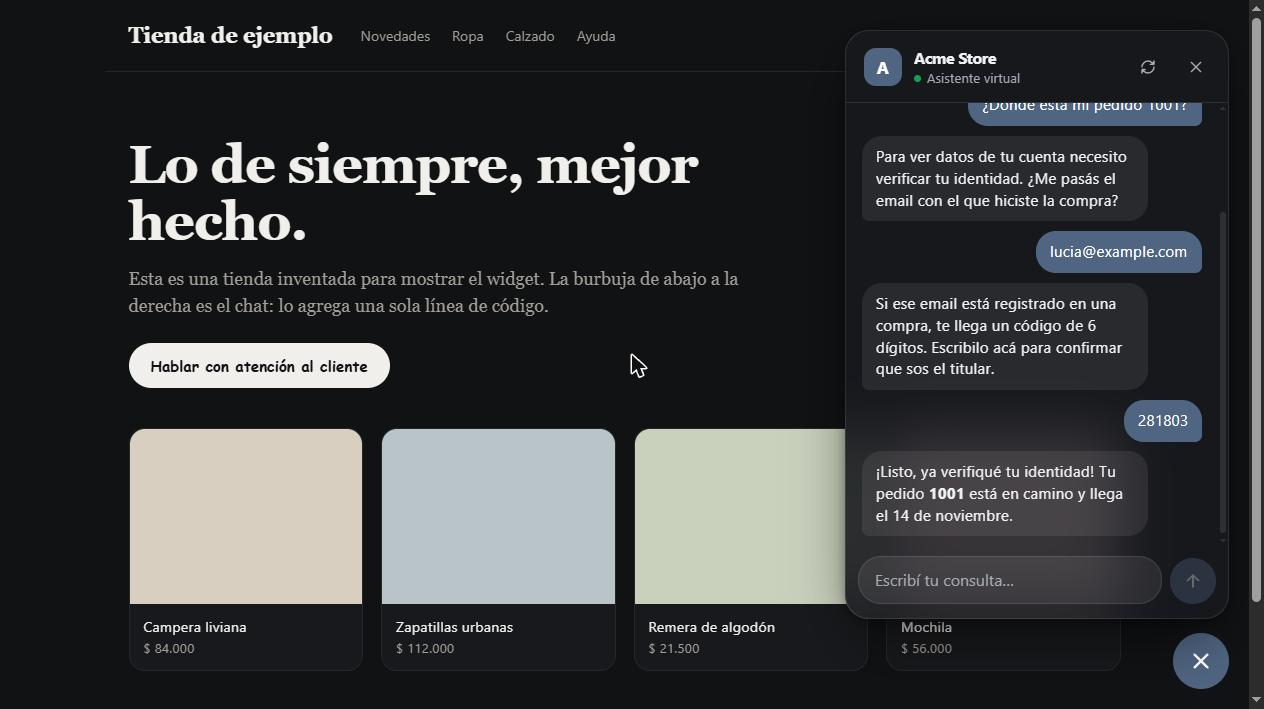
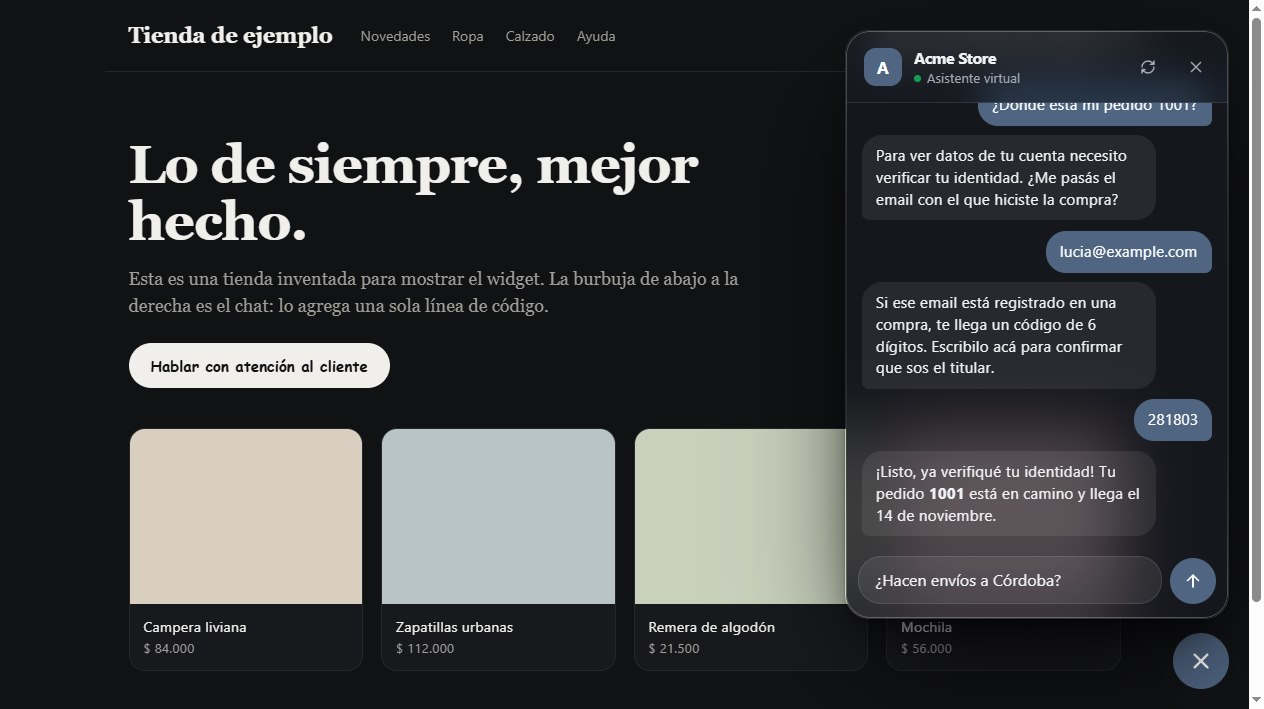
Mejora el diseño del widget: scroll discreto, vidrio más visible, enviar gris y panel flotante.

diff --git a/backend/app/channels/web/static/widget.js b/backend/app/channels/web/static/widget.js
@@ -19,13 +19,17 @@
 :host{all:initial}
 *{box-sizing:border-box}
 .root{--surface:255,255,255;--ink:#12151a;--muted:#5d6470;--line:rgba(18,21,26,.09);
---soft:rgba(18,21,26,.055);--warn-bg:rgba(180,83,9,.1);--warn:#8a4a06;--glass:.86;
---shadow:0 24px 64px -16px rgba(15,23,42,.28),0 2px 10px rgba(15,23,42,.06);
+--soft:rgba(18,21,26,.055);--warn-bg:rgba(180,83,9,.1);--warn:#8a4a06;--glass:.68;--top-glass:.6;
+--idle:rgba(18,21,26,.08);--idle-ink:#8b919b;--thumb:rgba(18,21,26,.3);
+--rim:rgba(255,255,255,.95);--rim-low:rgba(255,255,255,.3);
+--shadow:0 1px 2px rgba(15,23,42,.06),0 14px 30px -14px rgba(15,23,42,.2),0 50px 110px -30px rgba(15,23,42,.42);
 font:15px/1.45 system-ui,-apple-system,"Segoe UI",Roboto,"Helvetica Neue",Arial,sans-serif;
 color:var(--ink);-webkit-font-smoothing:antialiased;text-align:left}
 .root[data-theme=dark]{--surface:23,25,30;--ink:#f1f2f4;--muted:#a4aab4;
 --line:rgba(255,255,255,.1);--soft:rgba(255,255,255,.08);--warn-bg:rgba(251,191,36,.12);
---warn:#f5c56b;--glass:.84;--shadow:0 24px 64px -16px rgba(0,0,0,.7),0 2px 10px rgba(0,0,0,.3)}
+--warn:#f5c56b;--glass:.72;--top-glass:.58;--idle:rgba(255,255,255,.09);--idle-ink:#7c828c;
+--thumb:rgba(255,255,255,.32);--rim:rgba(255,255,255,.26);--rim-low:rgba(255,255,255,.05);
+--shadow:0 1px 2px rgba(0,0,0,.35),0 16px 34px -14px rgba(0,0,0,.6),0 54px 120px -26px rgba(0,0,0,.9)}
 button,textarea{font:inherit;color:inherit}
 button{cursor:pointer;-webkit-tap-highlight-color:transparent}
 :focus{outline:none}
@@ -49,11 +53,24 @@ transition:transform .35s cubic-bezier(.2,1.3,.4,1),opacity .25s;opacity:0;trans
 background:#d92d20;color:#fff;font-size:12px;font-weight:650;line-height:20px;text-align:center;
 box-shadow:0 0 0 2px rgb(var(--surface))}
 
-.panel{display:flex;flex-direction:column;overflow:hidden;background:rgba(var(--surface),.985);
+.panel{position:relative;display:flex;flex-direction:column;overflow:hidden;background:rgba(var(--surface),.985);
 border:1px solid var(--line);border-radius:24px;box-shadow:var(--shadow)}
+/* Brillo del borde: un aro de 1px, más claro arriba, como la luz sobre un vidrio. */
+.panel::before{content:"";position:absolute;inset:0;z-index:4;border-radius:inherit;padding:1px;pointer-events:none;
+background:linear-gradient(180deg,var(--rim),var(--rim-low) 34%,var(--rim-low) 72%,var(--rim));
+-webkit-mask:linear-gradient(#000 0 0) content-box,linear-gradient(#000 0 0);-webkit-mask-composite:xor;
+mask:linear-gradient(#000 0 0) content-box,linear-gradient(#000 0 0);mask-composite:exclude}
+.top{position:absolute;top:0;left:0;right:0;z-index:3;background:rgba(var(--surface),.97);
+border-bottom:1px solid var(--line)}
 @supports ((backdrop-filter:blur(1px)) or (-webkit-backdrop-filter:blur(1px))){
-.panel{background:rgba(var(--surface),var(--glass));
--webkit-backdrop-filter:blur(26px) saturate(1.7);backdrop-filter:blur(26px) saturate(1.7)}}
+/* El vidrio del panel va en una capa aparte: si lo tuviera el panel, el encabezado (que está
+   adentro) no podría desenfocar los mensajes que pasan por debajo. */
+.panel{background:transparent;z-index:0}
+.panel::after{content:"";position:absolute;inset:0;z-index:-1;background:rgba(var(--surface),var(--glass));
+-webkit-backdrop-filter:blur(32px) saturate(1.9);backdrop-filter:blur(32px) saturate(1.9)}
+/* El encabezado es otra capa de vidrio: los mensajes pasan por debajo, desenfocados. */
+.top{background:rgba(var(--surface),var(--top-glass));
+-webkit-backdrop-filter:blur(18px) saturate(1.8);backdrop-filter:blur(18px) saturate(1.8)}}
 .root[data-mode=float] .panel{position:fixed;z-index:2147483001;right:20px;
 bottom:calc(max(20px,env(safe-area-inset-bottom)) + 70px);width:384px;max-width:calc(100vw - 40px);
 height:min(640px,calc(100vh - 120px));height:min(640px,calc(100dvh - 120px));
@@ -66,7 +83,7 @@ transition:transform .46s cubic-bezier(.16,1.22,.3,1),opacity .2s ease-out,visib
 .root:not([data-mode=float]){height:100%}
 .root:not([data-mode=float]) .panel{width:100%;height:100%}
 
-header{display:flex;align-items:center;gap:12px;padding:16px 14px 14px 18px;border-bottom:1px solid var(--line)}
+header{display:flex;align-items:center;gap:12px;padding:16px 14px 14px 18px}
 .logo{flex:none;width:38px;height:38px;border-radius:12px;background:var(--accent);color:var(--on-accent);
 display:grid;place-items:center;font-weight:650;font-size:17px;overflow:hidden}
 .logo img{width:100%;height:100%;object-fit:cover;display:block}
@@ -87,9 +104,14 @@ display:flex;align-items:center;gap:10px}
 .link{border:0;background:none;padding:2px 4px;border-radius:6px;font-weight:600;font-size:13px;
 text-decoration:underline;text-underline-offset:3px}
 
-.log{flex:1;overflow-y:auto;overscroll-behavior:contain;padding:20px 16px 10px;display:flex;
-flex-direction:column;gap:10px;scrollbar-width:thin;scrollbar-color:var(--line) transparent}
+.log{flex:1;overflow-y:auto;overscroll-behavior:contain;padding:86px 16px 10px;display:flex;
+flex-direction:column;gap:10px;scrollbar-width:none}
+.log::-webkit-scrollbar,textarea::-webkit-scrollbar{display:none}
 .log:focus-visible{outline-offset:-5px;border-radius:14px}
+/* La barra del navegador no se ve: esta, fina, aparece solo mientras se desplaza. */
+.thumb{position:absolute;top:0;right:4px;z-index:2;width:4px;height:0;border-radius:2px;background:var(--thumb);
+opacity:0;pointer-events:none;transition:opacity .6s ease}
+.thumb.on{opacity:1;transition-duration:.12s}
 .row{display:flex;flex-direction:column;max-width:84%;align-items:flex-start;
 animation:in .32s cubic-bezier(.2,.9,.3,1) both}
 .row.user{align-self:flex-end;align-items:flex-end}
@@ -118,14 +140,16 @@ font-size:14px;transition:background .15s}
 .composer{display:flex;align-items:flex-end;gap:8px;padding:10px 12px 12px}
 textarea{flex:1;min-width:0;resize:none;min-height:46px;max-height:124px;padding:12px 16px;border-radius:23px;
 border:1px solid var(--line);background:var(--soft);font-size:16px;line-height:1.35;overflow-y:hidden;
-transition:border-color .15s,background .15s}
+scrollbar-width:none;transition:border-color .15s,background .15s}
 textarea::placeholder{color:var(--muted);opacity:1}
 textarea:focus-visible{outline:none;border-color:var(--focus);background:transparent}
 textarea:disabled{opacity:.55}
 .send{flex:none;width:46px;height:46px;border-radius:50%;border:0;background:var(--accent);color:var(--on-accent);
-display:grid;place-items:center;transition:transform .2s cubic-bezier(.2,1.3,.4,1),opacity .15s}
+display:grid;place-items:center;
+transition:transform .2s cubic-bezier(.2,1.3,.4,1),background-color .18s ease,color .18s ease}
 .send:hover:not(:disabled){transform:scale(1.07)}
-.send:disabled{opacity:.35;cursor:default}
+/* Gris con el campo vacío; el acento recién cuando hay algo para mandar. */
+.send:disabled{background:var(--idle);color:var(--idle-ink);cursor:default}
 .send svg{width:20px;height:20px}
 .ended{padding:6px 18px 14px;display:grid;justify-items:center}
 .foot{padding:0 18px max(12px,env(safe-area-inset-bottom));text-align:center;font-size:11.5px;color:var(--muted)}
@@ -141,13 +165,14 @@ display:grid;place-items:center;transition:transform .2s cubic-bezier(.2,1.3,.4,
 transform-origin:50% 100%;transform:translateY(24px)}
 .root[data-mode=float][data-open] .launcher{opacity:0;pointer-events:none}
 .root[data-mode=page] .panel{border-radius:0;border:0;box-shadow:none}
+.root[data-mode=float] .panel::before,.root[data-mode=page] .panel::before{display:none}
 header{padding-top:max(14px,env(safe-area-inset-top))}
 .row{max-width:88%}}
 @media (prefers-reduced-motion:reduce){
 *,*::before,*::after{animation-duration:.01ms!important;animation-iteration-count:1!important;
 transition-duration:.01ms!important}
 .root[data-mode=float] .panel{transform:none}}
-@media (forced-colors:active){.bubble,.panel,.launcher,.send{border:1px solid CanvasText}}
+@media (forced-colors:active){.bubble,.panel,.launcher,.send{border:1px solid CanvasText}.thumb{background:CanvasText}}
 `;
 
   var ICONS = {
@@ -168,13 +193,14 @@ transition-duration:.01ms!important}
     (embedded ? "" : '<button class="launcher" type="button" aria-expanded="false" aria-controls="panel">' +
       ICONS.chat + ICONS.close + '<span class="badge" hidden></span></button>') +
     '<section class="panel" id="panel" role="' + (embedded ? "region" : "dialog") + '" aria-label="Chat">' +
-    '<header><div class="logo" aria-hidden="true"></div><div class="title"><b></b>' +
+    '<div class="top"><header><div class="logo" aria-hidden="true"></div><div class="title"><b></b>' +
     '<span><i aria-hidden="true"></i><em style="font-style:normal">Asistente virtual</em></span></div>' +
     '<button class="icon fresh" type="button" aria-label="Empezar una conversación nueva" hidden>' + ICONS.fresh + "</button>" +
     (embedded ? "" : '<button class="icon shut" type="button" aria-label="Cerrar el chat">' + ICONS.close.replace(' class="i-close"', "") + "</button>") +
     "</header>" +
-    '<div class="bar" role="status" hidden></div>' +
+    '<div class="bar" role="status" hidden></div></div>' +
     '<div class="log" role="log" aria-live="polite" aria-relevant="additions" tabindex="0" aria-label="Conversación"></div>' +
+    '<div class="thumb" aria-hidden="true"></div>' +
     '<div class="composer"><label class="sr" for="msg">Mensaje</label>' +
     '<textarea id="msg" rows="1" maxlength="1000" placeholder="Escribí tu consulta…" enterkeyhint="send"></textarea>' +
     '<button class="send" type="button" aria-label="Enviar" disabled>' + ICONS.send + "</button></div>" +
@@ -187,6 +213,7 @@ transition-duration:.01ms!important}
   // el navegador descartaría uno anidado.
   var log = $(".log"), form = $(".composer"), input = $("textarea"), send = $(".send");
   var bar = $(".bar"), ended = $(".ended"), foot = $(".foot"), fresh = $(".fresh");
+  var top = $(".top"), thumb = $(".thumb");
   var note = attr("note", "");
 
   var cfg = null, open = embedded, busy = false, typing = null, unread = 0, lastFocus = null;
@@ -247,7 +274,27 @@ transition-duration:.01ms!important}
   function format(text) {
     return escapeHtml(text).replace(/\*(\S(?:[^*\n]*\S)?)\*/g, "<strong>$1</strong>").replace(/\n/g, "<br>");
   }
-  function scrollDown() { log.scrollTop = log.scrollHeight; }
+  // Un desplazamiento del propio widget (llega un mensaje) no muestra la barra.
+  var quietUntil = 0, thumbTimer = null;
+  function scrollDown() { quietUntil = Date.now() + 150; log.scrollTop = log.scrollHeight; }
+  // El encabezado flota sobre los mensajes: la lista empieza debajo de él, mida lo que mida.
+  function padTop() { log.style.paddingTop = top.offsetHeight + 16 + "px"; }
+  if (window.ResizeObserver) new ResizeObserver(padTop).observe(top);
+  function placeThumb() {
+    var view = log.clientHeight, full = log.scrollHeight;
+    var start = top.offsetHeight + 6, track = log.offsetTop + view - 6 - start;
+    if (full <= view + 1 || track < 40) return false;
+    var size = Math.max(28, track * view / full);
+    thumb.style.height = size + "px";
+    thumb.style.transform = "translateY(" + (start + (track - size) * log.scrollTop / (full - view)) + "px)";
+    return true;
+  }
+  log.addEventListener("scroll", function () {
+    if (Date.now() < quietUntil || !placeThumb()) return;
+    thumb.classList.add("on");
+    clearTimeout(thumbTimer);
+    thumbTimer = setTimeout(function () { thumb.classList.remove("on"); }, 900);
+  }, { passive: true });
   function brand() {
     var logo = $(".logo");
     $(".title b").textContent = cfg.name;

diff --git a/backend/tests/test_widget.py b/backend/tests/test_widget.py
@@ -18,7 +18,7 @@ from fastapi.testclient import TestClient
 from simulated.stack import SimulatedStack, build_simulated_stack
 
 from app.channels.web import widget
-from app.channels.web.routes import WebDeps, web_deps
+from app.channels.web.routes import STATIC, WebDeps, web_deps
 from app.channels.whatsapp.routing import register_whatsapp_channel
 from app.companies.create import chat_slug, create_company
 from app.db.connection import tenant_scope
@@ -139,6 +139,24 @@ def test_el_widget_es_un_solo_archivo_liviano_y_sin_dependencias(world: World) -
     assert "<form" not in script
     # Un mensaje del equipo ya mostrado no se repite (dos consultas superpuestas).
     assert "seen.indexOf(m.id)" in script
+
+
+def test_el_diseno_del_widget_oculta_el_scroll_nativo_y_marca_el_boton_de_enviar() -> None:
+    """Mejora de diseño: scroll discreto, vidrio más visible, enviar gris si está vacío y un
+    panel que flota. Se mira el archivo tal cual se sirve, sin base de datos."""
+    script = (STATIC / "widget.js").read_text(encoding="utf-8")
+    # La barra del navegador no se ve: la reemplaza una fina que aparece solo al desplazar.
+    assert "scrollbar-width:none" in script and "::-webkit-scrollbar{display:none}" in script
+    assert 'class="thumb"' in script and 'addEventListener("scroll"' in script
+    # El encabezado es una capa de vidrio propia: los mensajes pasan por debajo, desenfocados.
+    assert re.search(r"\.top\{[^}]*position:absolute", script)
+    assert script.count("backdrop-filter:blur(") >= 2  # el panel y el encabezado
+    # Enviar: gris con el campo vacío (no el acento apagado) y el acento cuando hay texto.
+    disabled = re.search(r"\.send:disabled\{([^}]*)\}", script)
+    assert disabled is not None
+    assert "opacity" not in disabled.group(1) and "var(--idle)" in disabled.group(1)
+    # Brillo en el borde del panel y una sombra más profunda.
+    assert ".panel::before" in script and "--rim" in script
 
 
 def test_la_pagina_de_la_empresa_y_la_de_la_demo_usan_el_mismo_widget(world: World) -> None:

diff --git a/docs/widget.md b/docs/widget.md
@@ -85,6 +85,7 @@ La página propia del chat acepta `?tema=claro` y `?tema=oscuro`.
 
 - **Mismo flujo que el chat de siempre:** verificación por código, aprobaciones, respuestas del equipo y límites.
 - **No rompe el sitio ni el sitio lo rompe:** vive en un Shadow DOM.
-- **Liviano:** un archivo de unos 30 KB, sin dependencias, cargado con `async`.
+- **Liviano:** un archivo de unos 35 KB, sin dependencias, cargado con `async`.
+- **Discreto:** panel de vidrio esmerilado que deja ver el sitio de fondo, encabezado translúcido sobre los mensajes y sin la barra de scroll del navegador: una fina aparece solo mientras se desplaza. El botón de enviar queda gris hasta que hay algo escrito.
 - **La conversación queda en el navegador del visitante.** Si cambia de página dentro del sitio, sigue donde estaba.
 - **Los dominios permitidos son un control de navegador.** Los límites de uso por sesión, por conexión y por día siguen valiendo.
